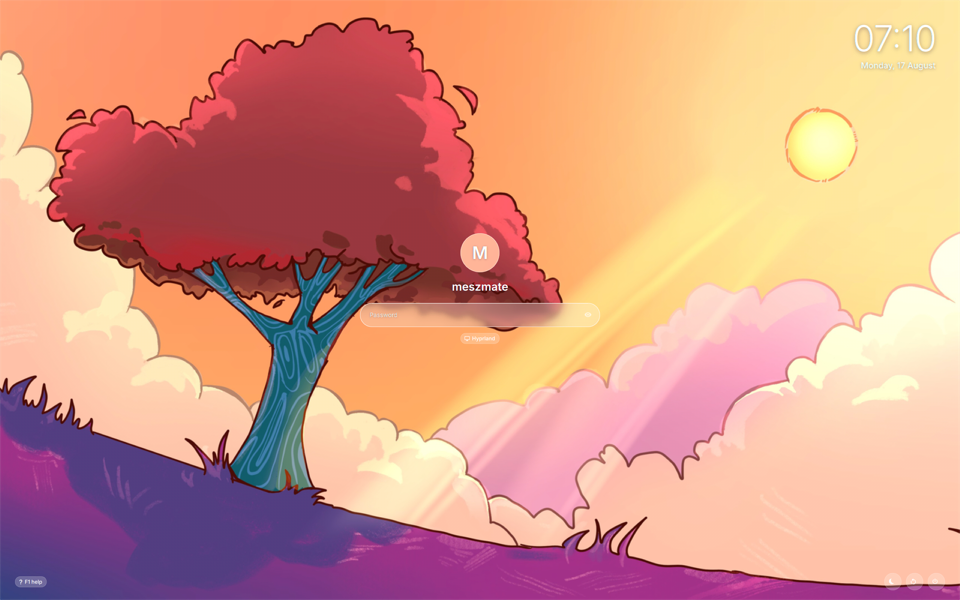
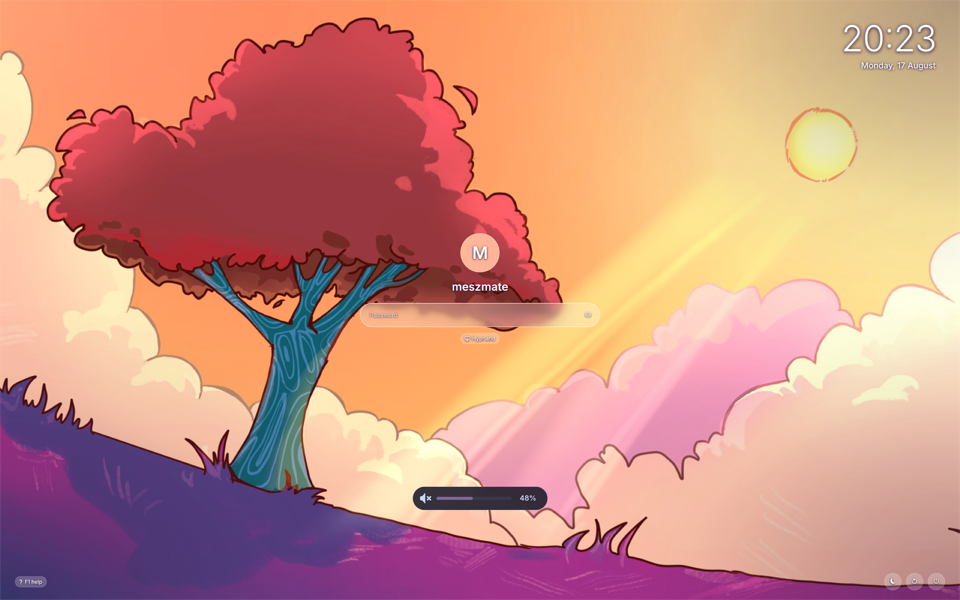
sddm: centre the power button glyphs
The icon was pinned at a fixed left margin sized for a 20px glyph; the
Nerd Font icons are narrower so they sat left of centre. The glyph now
lives in a fixed 46x46 slot with anchors.centerIn (and gets a Halo like
the other labels); the hover label anchors to that slot. Screenshot
regenerated.

diff --git a/setup/minimal-sddm/PowerButton.qml b/setup/minimal-sddm/PowerButton.qml
@@ -26,22 +26,29 @@ Item {
         border.color: hot ? alpha("#ffffff", 0.9) : alpha("#ffffff", 0.35)
         Behavior on color { ColorAnimation { duration: 140 } }
     }
-    Text {
+    Item {   // fixed round slot; the glyph is centred in it whatever its advance width
         id: glyph
-        anchors { left: parent.left; leftMargin: 13; verticalCenter: parent.verticalCenter }
-        text: btn.icon
-        color: cText
-        font { family: monoFont; pixelSize: 20 }
+        width: 46; height: 46
+        Text {
+            anchors { centerIn: parent; verticalCenterOffset: -1 }
+            text: btn.icon
+            color: cText
+            font { family: monoFont; pixelSize: 20 }
+            layer.enabled: true
+            layer.effect: Halo { size: 0.75 }
+        }
     }
     Text {
         id: text
-        anchors { left: glyph.right; leftMargin: 8; verticalCenter: parent.verticalCenter }
+        anchors { left: glyph.right; leftMargin: 2; verticalCenter: parent.verticalCenter }
         text: btn.label
         color: cText
         opacity: hot ? 1 : 0
         visible: opacity > 0
         Behavior on opacity { NumberAnimation { duration: 140 } }
         font { family: uiFont; pixelSize: 14; weight: Font.Medium }
+        layer.enabled: true
+        layer.effect: Halo { size: 0.75 }
     }
     MouseArea {
         id: area
